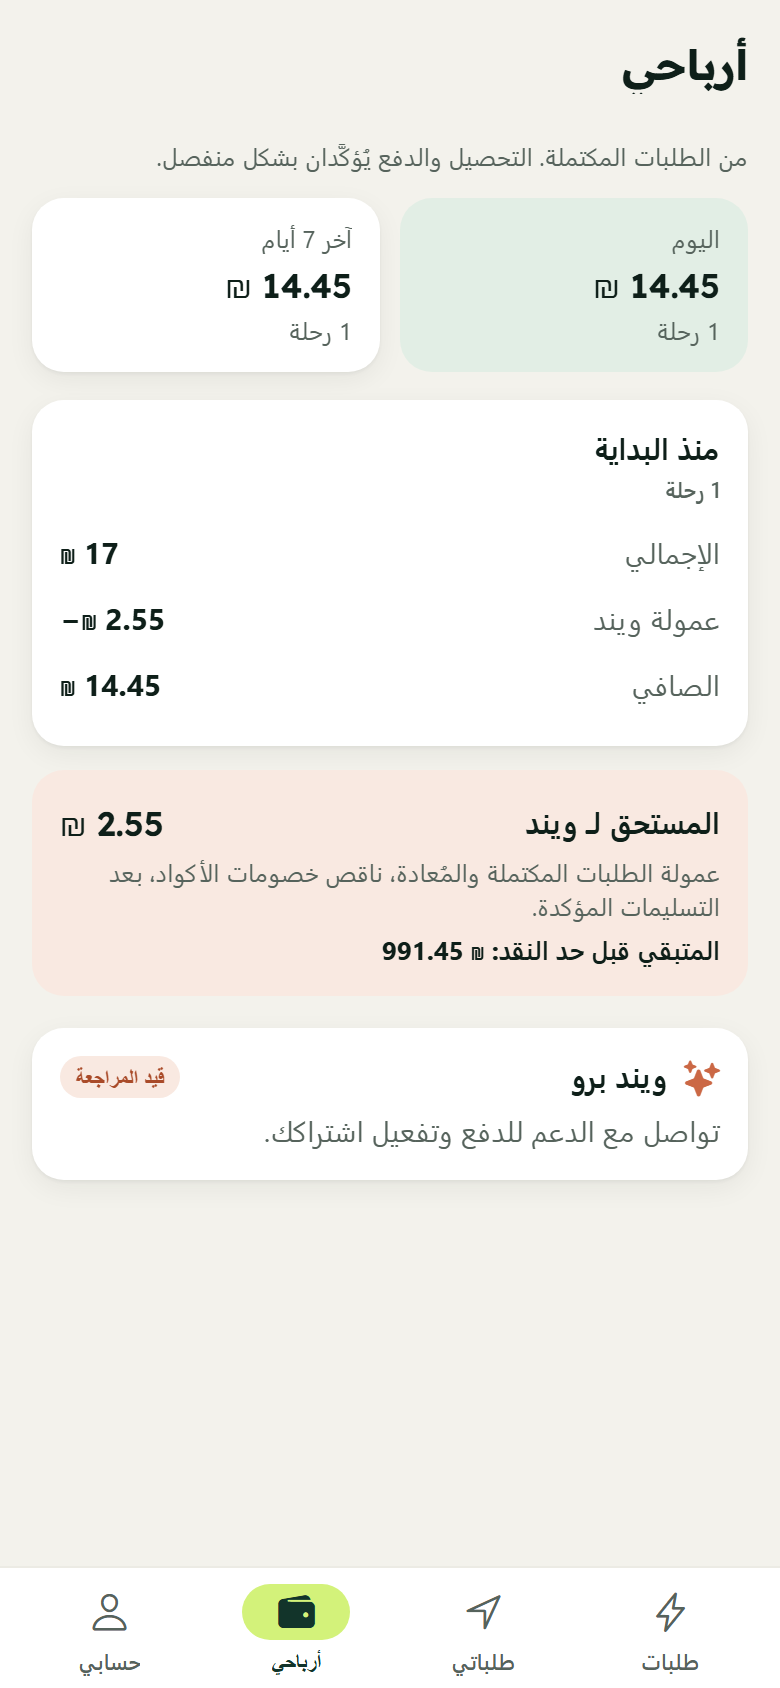
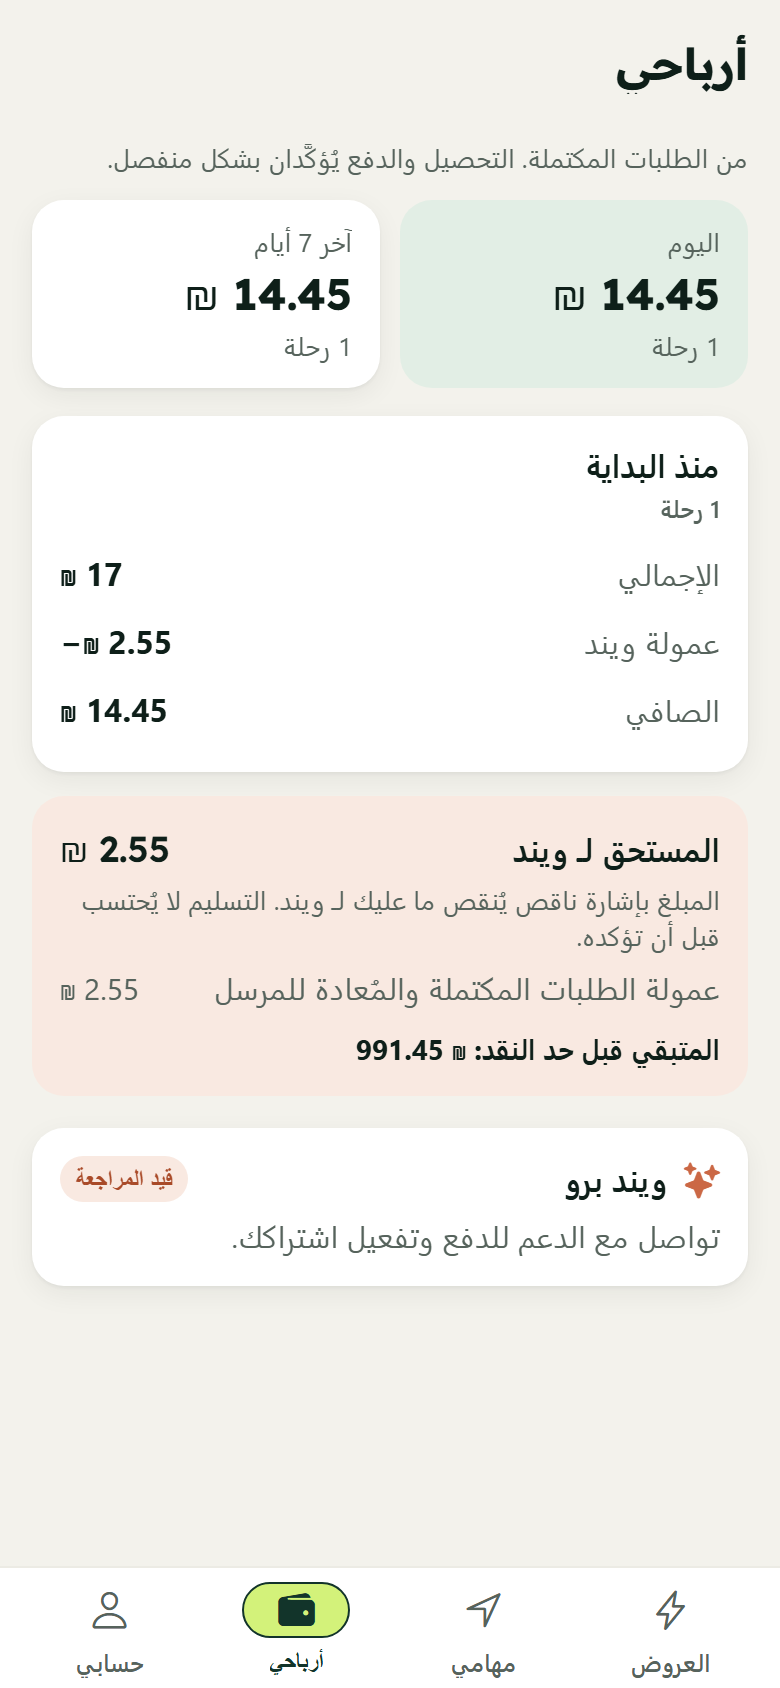
feat(earnings): show the driver how the cash balance is made (#91)
* feat(earnings): show the driver how the cash balance is made

Research priority #9 (earnings derived from real records). The driver's
cash card showed one "Owed to Wind" total; the API already returned its
parts. The card now lists commission, shop cash, promo credits,
adjustments and confirmed handovers, signed in the owed-to-Wind
direction, plus handovers waiting for the driver as not counted yet.
cashLines() shows no breakdown when the parts do not add up to the
balance, so the screen never shows arithmetic that disagrees with it.

* docs: research priorities #5-#10 status against master

* fix(earnings): review findings on the cash breakdown

- The admin cash screen reused the driver-addressed hint; the admin keeps
  a neutral cashOwedHint (now naming shop cash, adjustments and payouts)
  and the driver card gets cashBreakdownHint.
- The pending line showed a minus sign though it is not in the total;
  it is now unsigned and says "not in the total".
- Shop and adjustment labels named only part of their totals (shop
  trip pay on returned/cancelled jobs; cash payouts): relabelled.
- Arabic "returned" now matches the app's status term (للمرسل).
- tests: negative shop line; cash.test ties the breakdown to the
  server's owedCents.

* fix(earnings): breakdown sits under the total it explains, in body weight

* docs(screens): regenerate driver earnings (AR, EN)

* fix(earnings): re-review findings on the cash breakdown
[…]

diff --git a/src/app/driver/earnings.tsx b/src/app/driver/earnings.tsx
@@ -1,13 +1,14 @@
 import { useState } from 'react';
 import { View } from 'react-native';
 import { api, useApi } from '../../api';
+import { type CashBalance, cashLines } from '../../cash-lines';
 import { PlanCard, useFormat } from '../../parts';
 import { Badge, Button, Card, confirm, ErrorText, fill, haptic, Header, Loading, Row, Screen, Stat, tones, Txt, useCopy } from '../../ui';
 
 type Bucket = { jobs: number; gross: number; commission: number; net: number };
 type CashEntry = { id: number; kind: 'remittance' | 'adjustment'; amountCents: number; note: string;
   status: 'pending' | 'confirmed' | 'disputed'; reference: string | null; createdAt: number };
-type Cash = { owedCents: number; pendingCents: number; discountsCents: number; capCents?: number; exposureCents?: number; entries: CashEntry[] };
+type Cash = CashBalance & { pendingCents: number; capCents?: number; exposureCents?: number; entries: CashEntry[] };
 const entryTone = { pending: tones.clay, confirmed: tones.olive, disputed: tones.error };
 
 export default function Earnings() {
@@ -46,6 +47,7 @@ function CashCard() {
   const [failure, setFailure] = useState('');
   const [shown, setShown] = useState(10); // the ledger is longer than the screen: it grows on request
   if (!data) return null;
+  const lines = cashLines(c, data);
   async function decide(entry: CashEntry, decision: 'confirm' | 'dispute') {
     setBusy(entry.id); setFailure('');
     try { await api(`/driver/cash/${entry.id}/confirm`, { decision }); haptic.success(); reload(); }
@@ -56,11 +58,15 @@ function CashCard() {
       <Txt variant="title">{data.owedCents < 0 ? c.windOwesYou : c.cashOwed}</Txt>
       <Txt variant="h2">{money(Math.abs(data.owedCents) / 100)}</Txt>
     </Row>
-    <Txt variant="caption" style={{ marginTop: 4 }}>{c.cashOwedHint}</Txt>
+    {lines.length > 0 && <Txt variant="caption" style={{ marginTop: 4, marginBottom: 4 }}>{c.cashBreakdownHint}</Txt>}
+    {lines.map(([label, cents]) => <Row key={label} gap={8} style={{ justifyContent: 'space-between', paddingVertical: 2 }}>
+      <Txt style={{ flex: 1 }}>{label}</Txt>
+      <Txt>{money(cents / 100)}</Txt>
+    </Row>)}
+    {data.pendingCents > 0 && <Txt variant="caption" style={{ marginTop: 4 }}>{`${c.cashPendingTotal}: ${money(data.pendingCents / 100)}`}</Txt>}
     {data.capCents !== undefined && data.exposureCents !== undefined && (data.capCents - data.exposureCents > 0
-      ? <Txt variant="label" style={{ marginTop: 4 }}>{`${c.cashCapLeft}: ${money((data.capCents - data.exposureCents) / 100)}`}</Txt>
-      : <Txt variant="title" style={{ marginTop: 6, color: tones.error.fg }}>{c.cashCapReached}</Txt>)}
-    {data.discountsCents > 0 && <Txt variant="label" style={{ marginTop: 4 }}>{`${c.promoCredits}: ${money(-data.discountsCents / 100)}`}</Txt>}
+      ? <Txt variant="label" style={{ marginTop: 8 }}>{`${c.cashCapLeft}: ${money((data.capCents - data.exposureCents) / 100)}`}</Txt>
+      : <Txt variant="title" style={{ marginTop: 8, color: tones.error.fg }}>{c.cashCapReached}</Txt>)}
     <ErrorText>{failure || (error && err(error))}</ErrorText>{/* a failed poll keeps the last balance: say so */}
     {data.entries.filter(e => e.status === 'pending').map(entry => <View key={entry.id} style={{ marginTop: 12, gap: 8 }}>
       <Txt variant="title">{`${c.cashPending}: ${money(entry.amountCents / 100)} · ${entry.reference}`}</Txt>

diff --git a/src/copy.ts b/src/copy.ts
@@ -260,7 +260,13 @@ const ar = {
   earnings: 'أرباحي',
   cashTab: 'النقد',
   cashOwed: 'المستحق لـ ويند',
-  cashOwedHint: 'عمولة الطلبات المكتملة والمُعادة، ناقص خصومات الأكواد، بعد التسليمات المؤكدة.',
+  cashOwedHint: 'عمولة الطلبات المكتملة والمُعادة للمرسل ونقد طلبات المتاجر، ناقص خصومات الأكواد، مع التسويات والمدفوعات، بعد التسليمات المؤكدة.',
+  cashBreakdownHint: 'المبلغ بإشارة ناقص يُنقص ما عليك لـ ويند. التسليم لا يُحتسب قبل أن تؤكده.',
+  cashFromCommission: 'عمولة الطلبات المكتملة والمُعادة للمرسل',
+  cashFromShop: 'طلبات المتاجر: النقد المحصّل بعد خصم رسوم التوصيل، ناقص أجر مشاويرك',
+  cashAdjustments: 'تسويات ويند والمبالغ المدفوعة لك نقداً',
+  cashHandedOver: 'التسليمات المؤكدة',
+  cashPendingTotal: 'تسليمات بانتظار تأكيدك، غير محسوبة في المجموع',
   cashCapLeft: 'المتبقي قبل حد النقد',
   cashCapReached: 'وصلت حد النقد. سلّم المستحق لـ ويند لتصلك طلبات جديدة.',
   cashPending: 'تسليم بانتظار تأكيدك',
@@ -1899,7 +1905,13 @@ const en: Copy = {
   earnings: 'Earnings',
   cashTab: 'Cash',
   cashOwed: 'Owed to Wind',
-  cashOwedHint: 'Commission on finished jobs, minus promo discounts, after confirmed handovers.',
+  cashOwedHint: 'Commission on finished jobs and shop order cash, minus promo credits, with adjustments and payouts, after confirmed handovers.',
+  cashBreakdownHint: 'A minus amount takes off what you owe Wind. A handover counts once you confirm it.',
+  cashFromCommission: 'Commission on completed and returned jobs',
+  cashFromShop: 'Shop orders: cash collected above the delivery fee, less your trip pay',
+  cashAdjustments: 'Wind adjustments and cash payouts',
+  cashHandedOver: 'Confirmed handovers',
+  cashPendingTotal: 'Handovers waiting for you, not in the total',
   cashCapLeft: 'Left before the cash limit',
   cashCapReached: 'Cash limit reached. Hand over what you owe Wind to get new jobs.',
   cashPending: 'Handover waiting for your confirmation',

diff --git a/src/cash-lines.ts b/src/cash-lines.ts
@@ -1,0 +1,20 @@
+type Words = { cashFromCommission: string; cashFromShop: string; promoCredits: string; cashAdjustments: string; cashHandedOver: string };
+/** The driver's cash balance as `GET /api/driver/cash` returns it, in agorot. */
+export type CashBalance = { owedCents: number; commissionCents: number; discountsCents: number; adjustmentsCents: number; remittedCents: number; shopCents?: number };
+
+/**
+ * How the driver's balance with Wind is made (research priority #9: earnings derived from their real records), in the
+ * direction of "owed to Wind": a plus adds to what the driver owes, a minus takes it off. Each line is a server total;
+ * pending and disputed handovers are not in any of them (only confirmed handovers count).
+ * Returns no lines when the parts do not add up to the balance, so the screen never shows arithmetic that disagrees with it.
+ */
+export function cashLines(c: Words, cash: CashBalance): [string, number][] {
+  const shop = cash.shopCents ?? 0;
+  if (cash.commissionCents - cash.discountsCents + cash.adjustmentsCents - cash.remittedCents + shop !== cash.owedCents) return [];
+  const lines: [string, number][] = [[c.cashFromCommission, cash.commissionCents]];
+  if (shop) lines.push([c.cashFromShop, shop]);
+  if (cash.discountsCents) lines.push([c.promoCredits, -cash.discountsCents]);
+  if (cash.adjustmentsCents) lines.push([c.cashAdjustments, cash.adjustmentsCents]);
+  if (cash.remittedCents) lines.push([c.cashHandedOver, -cash.remittedCents]);
+  return lines;
+}

diff --git a/docs/HANDOFF-2026-11-18-CLAUDE-RESTORE-SEAMS.md b/docs/HANDOFF-2026-11-18-CLAUDE-RESTORE-SEAMS.md
@@ -59,3 +59,16 @@ Closes the 17 Nov handoff's "phone acceptance NOT RUN" for A-01, the chat outbox
 - Phone update-install test (REA §5.3: `install -r` over existing data) for Fastship: NOT RUN. The shop line is off in production (D-2), and the admin cash screen is web. A release that changes a persisted shape should get one on the A53 before shipping.
 - Merges are not deploys; production is unchanged.
 - REA §6 items (map tiles in the demo apps, WindRide/WindBazaar signer mismatch) are owner-side and untouched.
+
+## 6. Research priorities #5–#10 against master (later 18 Nov, Opus)
+
+Priority map: `wind-competitors/CLAUDE-INTEGRATION.md` §2. #1–#4 shipped 17 Nov (#79/#81/#82, #84, #86, #85). `[read]` master `bb6a3d0d`:
+
+| # | Area | Verdict |
+|---|---|---|
+| 8 | Server-held proof | Already met: handover/return codes held server-side, owner-only view (`server/main.ts` `handoverCode: owner ? …`), 5 bounded guesses then `proof_locked` with an admin attention push, `PROOF_FAILED`/`PROOF_RESET` security events with reason, support identity check (`SUPPORT_PROOF_TTL`), boarding PIN revisions in `server/domain/ride-lifecycle.ts`. No slice. |
+| 7 | Scheduling | Already met: `invalid_schedule` unless integer, ≥ release window and ≤ 7 days; quote/booking mismatch `itinerary_changed`; idempotent reschedule after a lost reply; release sweep; `scheduledFor ?? null` restore. No slice. |
+| 9 | Earnings | Gap: the driver cash card showed one total though `GET /api/driver/cash` returned its parts. **#91** shows the parts (commission, shop cash, promo credits, adjustments, confirmed handovers) signed toward "owed to Wind", plus pending handovers as not counted; no breakdown when parts ≠ total. Disputed handovers are void, not totalled. |
+| 5 | Map-first home / failure states | Not started. Partial today: map page reports `fail` on load/HTTP/WebGL loss, `windTileFailed` tracked, `pinUnavailable`/`mapUnavailable` copy. Next owner: one-tap resume of an active order from home, and actionable text for permission, approximate fix, stale fix, offline routing and tile failure. UI-heavy: sequence after the 18 Nov Haiku design review lands. |
+| 6 | Addresses | Not started; read `SPEC-saved-places.md` first. |
+| 10 | Accessibility / RTL | Ongoing across slices; the 18 Nov Haiku design review feeds it. |
